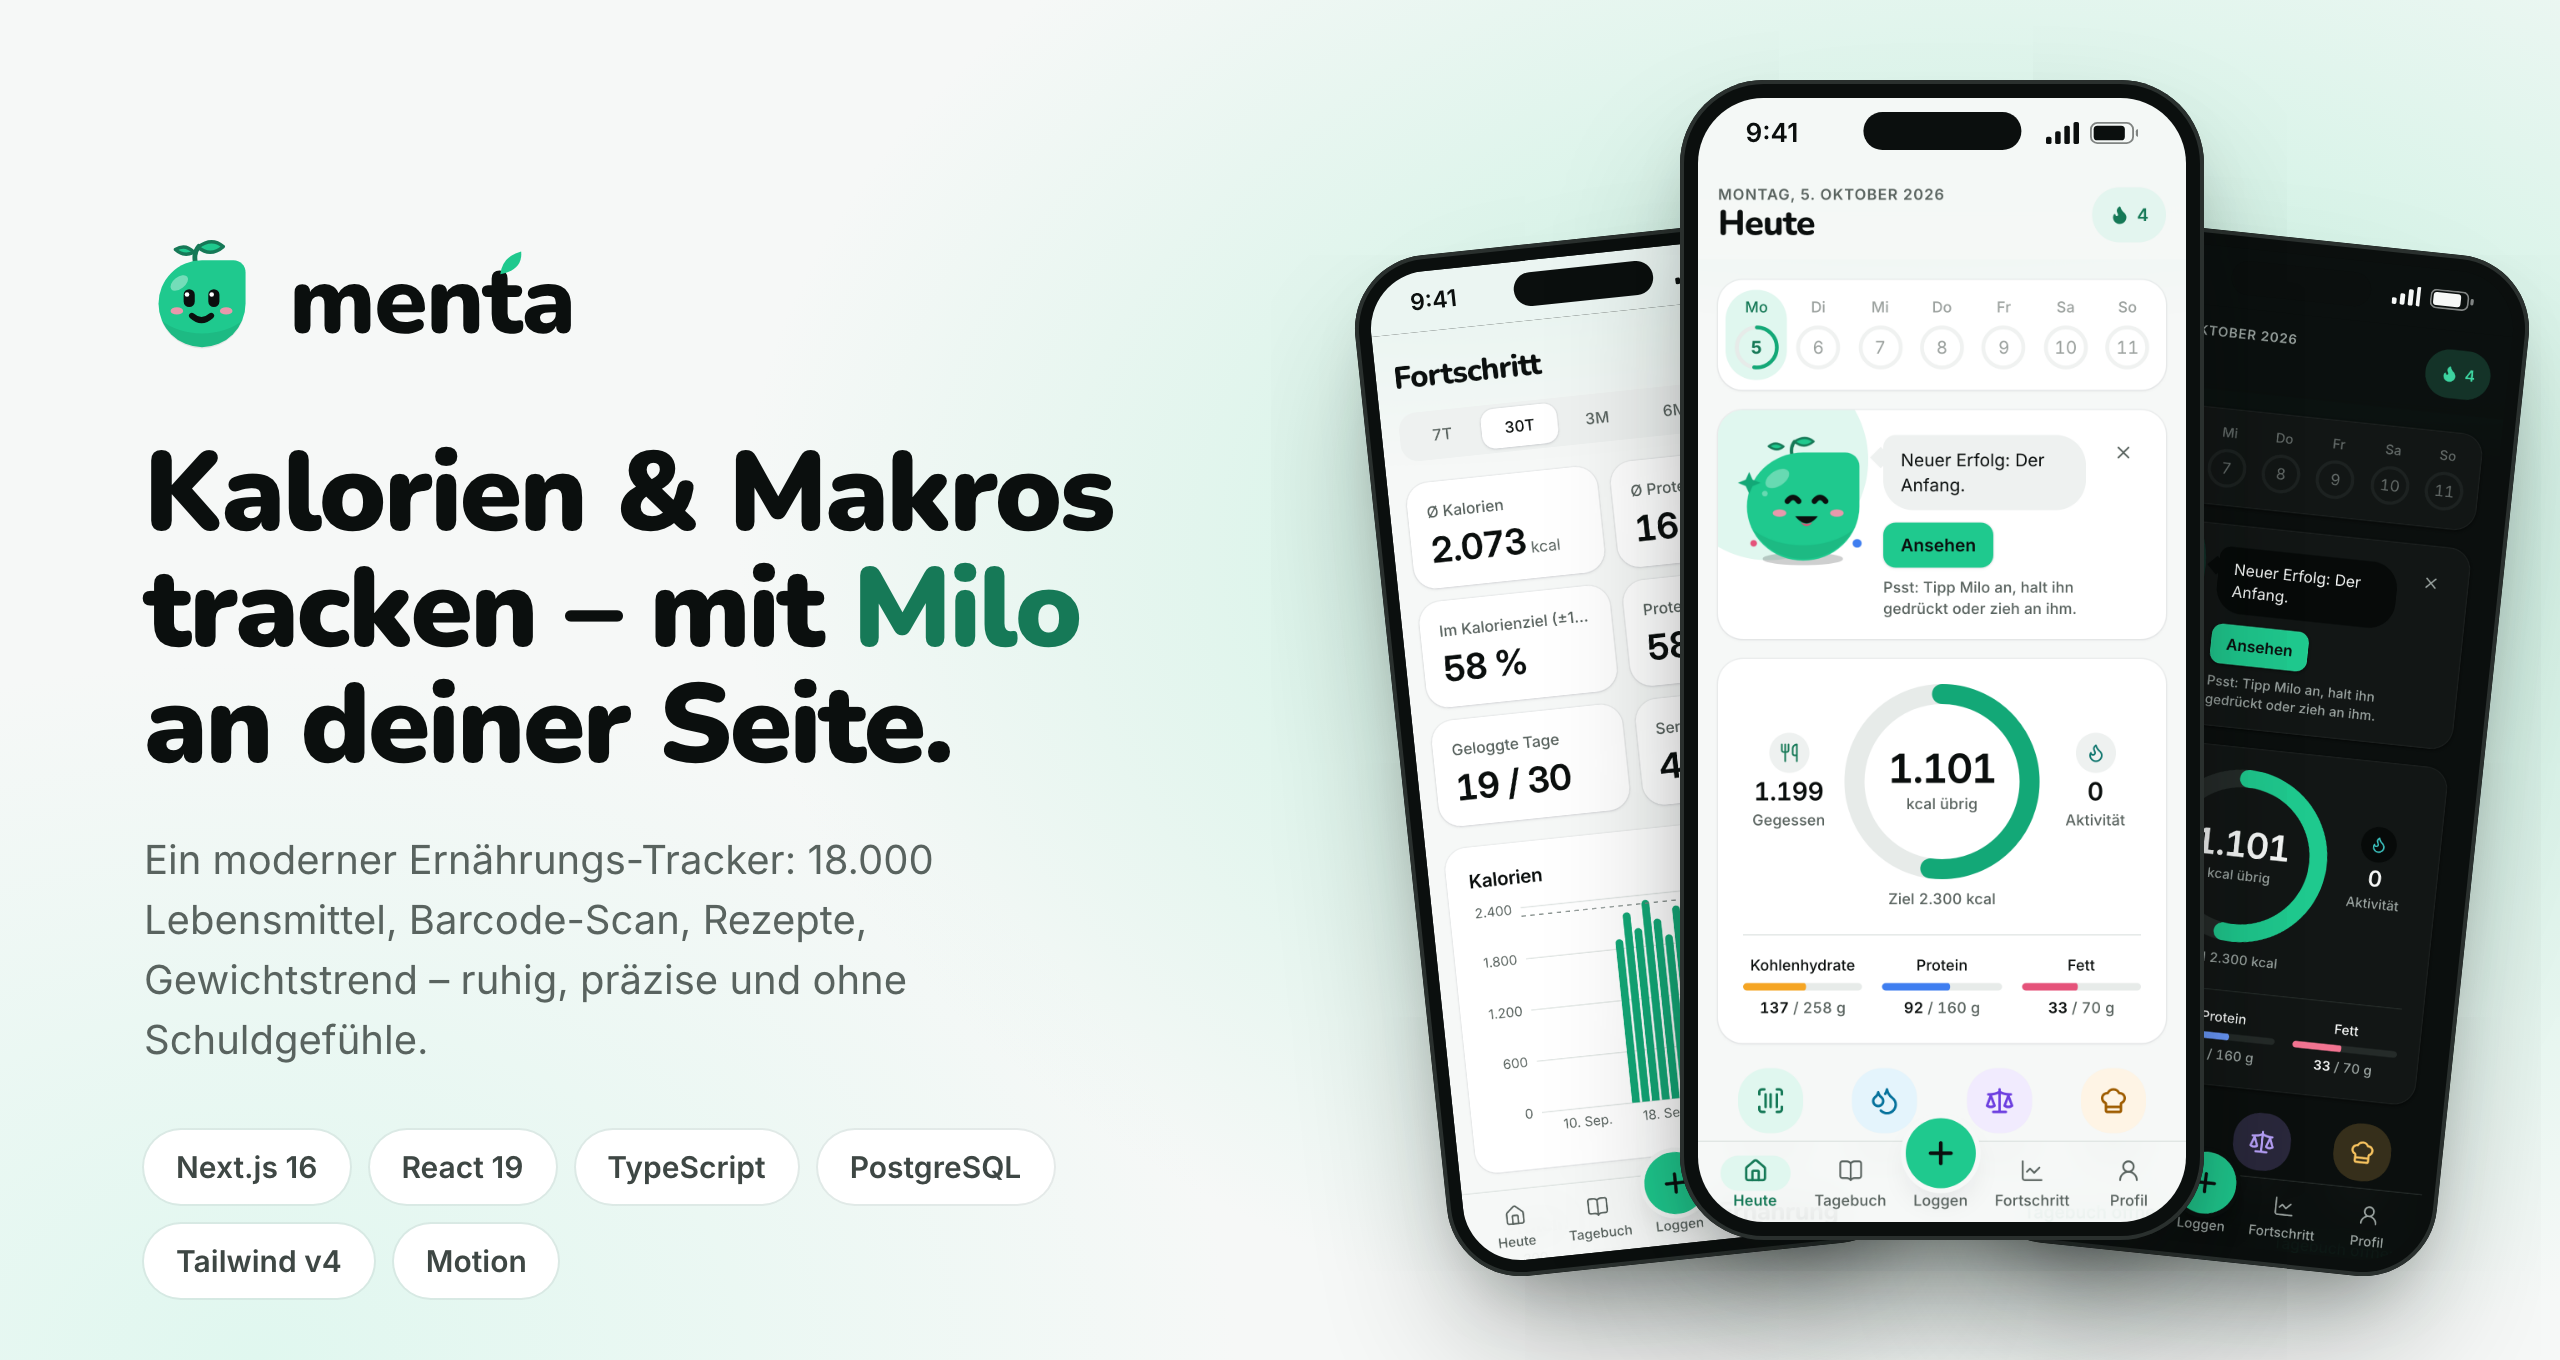
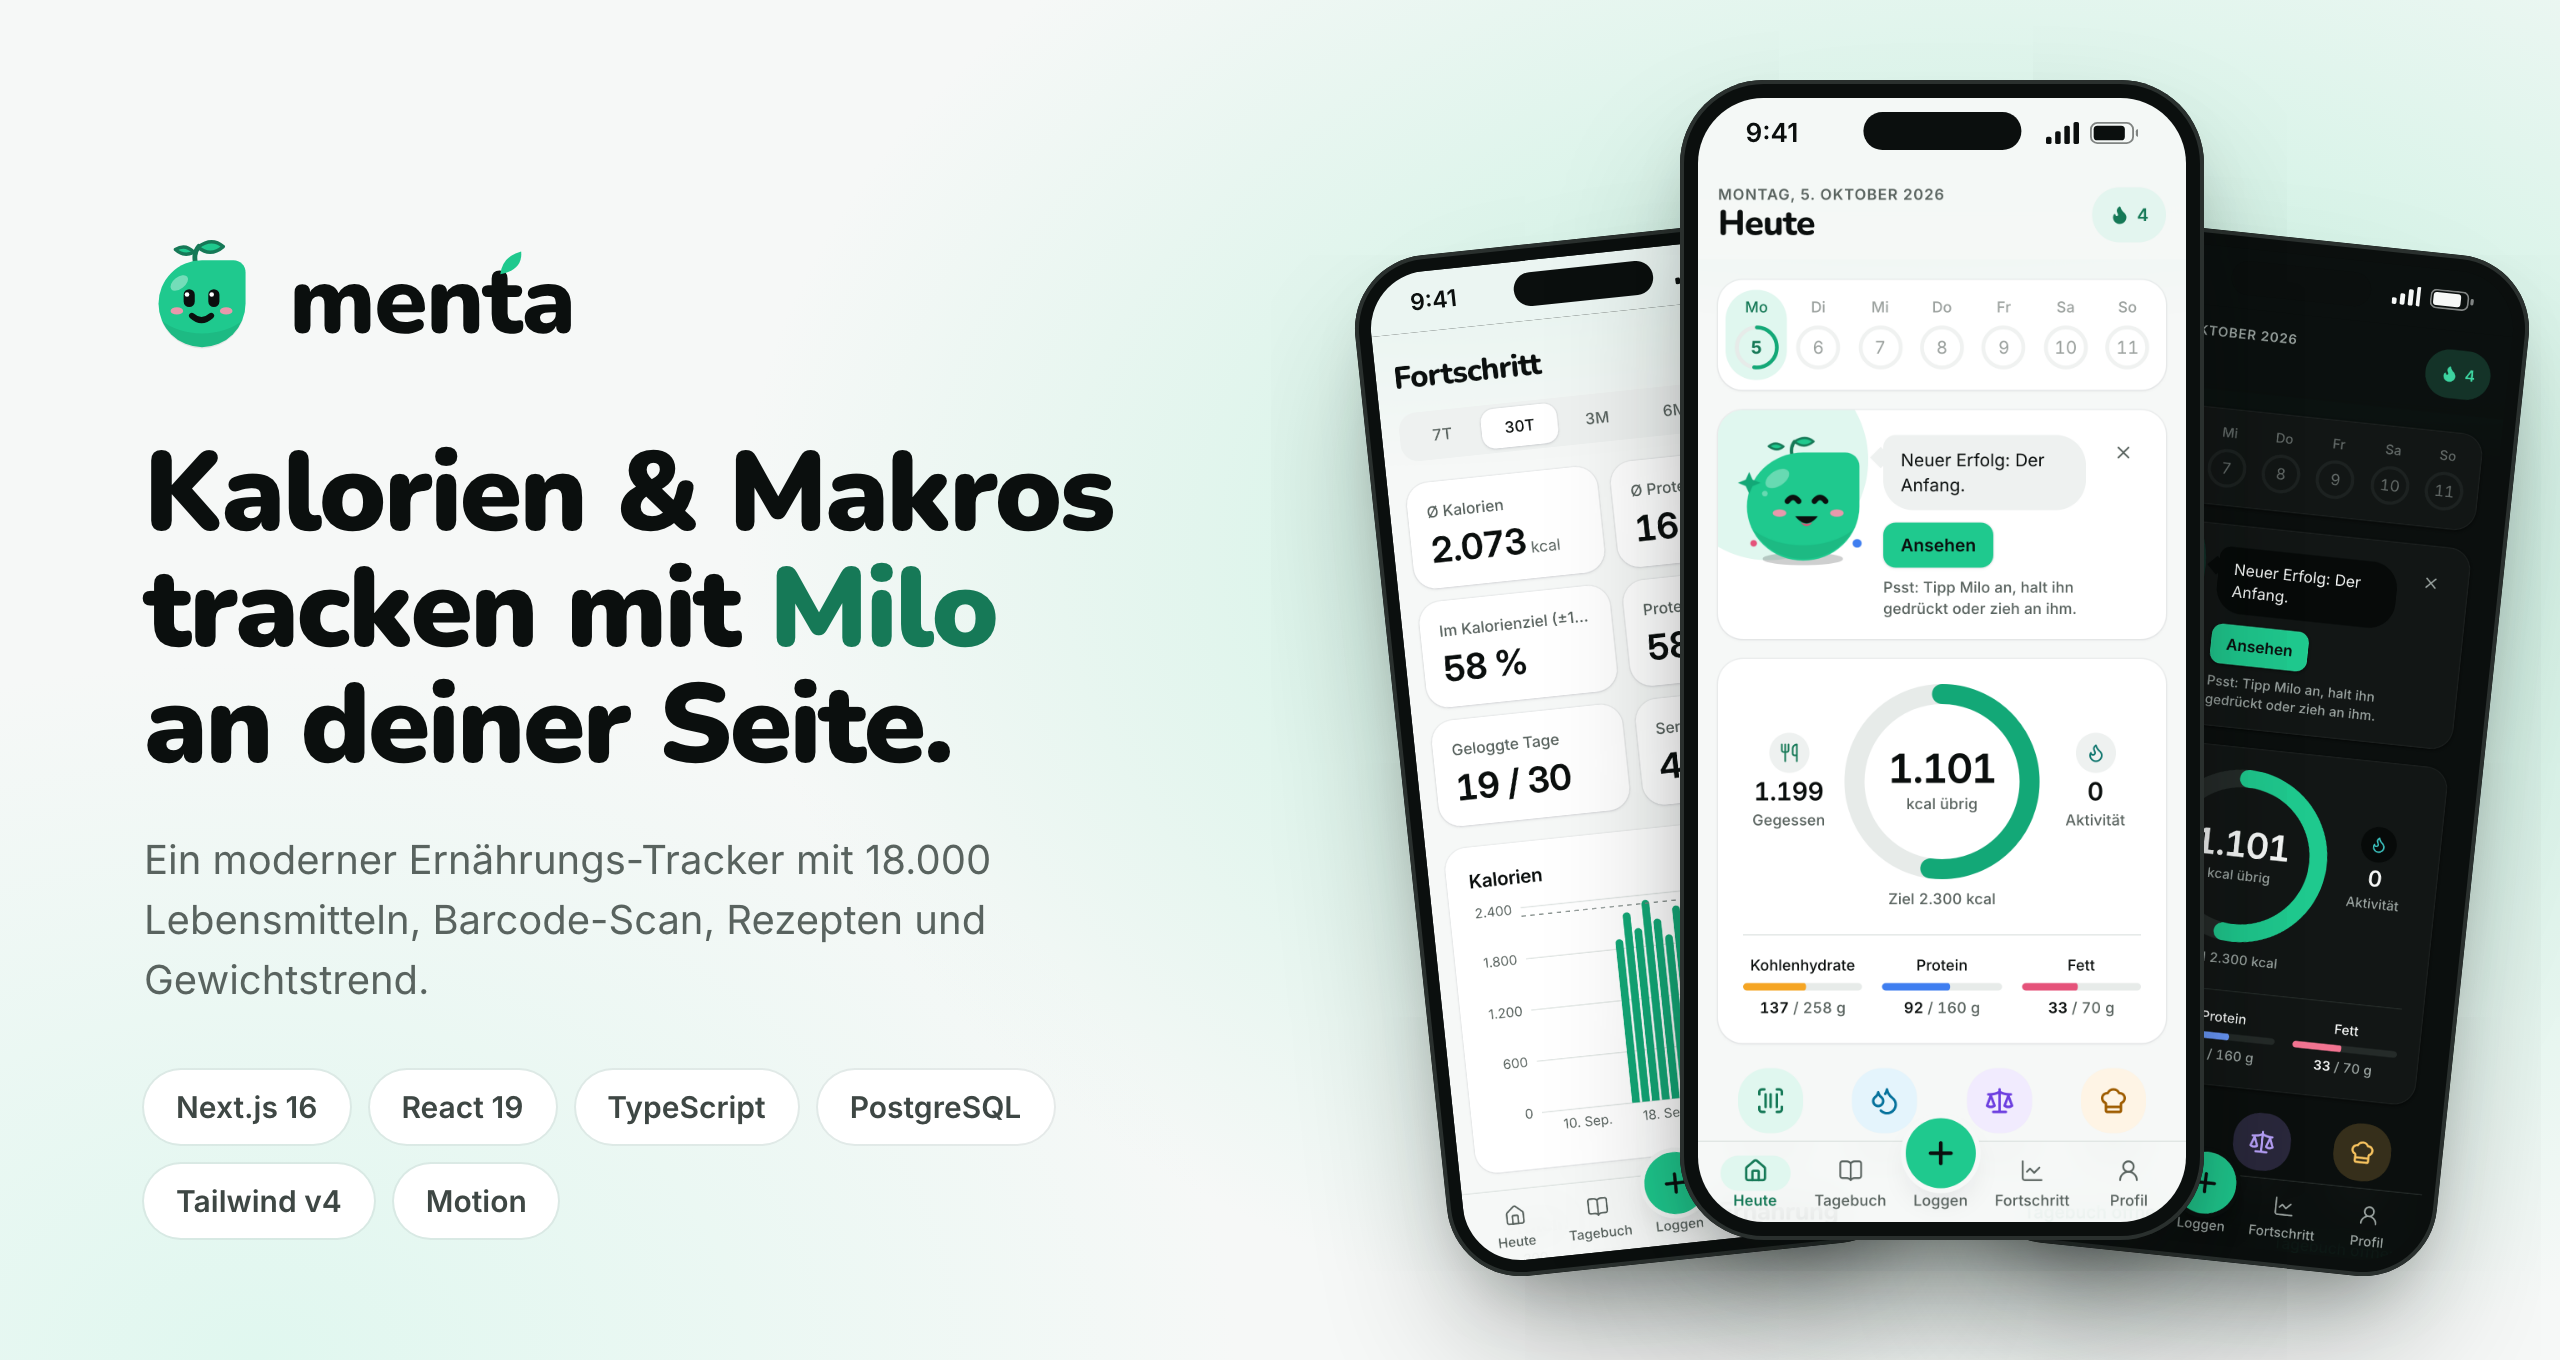
docs: simplify README and hero copy

diff --git a/README.md b/README.md
@@ -7,8 +7,7 @@
 
 ### Klarheit auf dem Teller.
 
-Ein moderner Kalorien- und Makro-Tracker mit Maskottchen **Milo** als Coach –<br>
-ruhig, präzise und ohne Schuldgefühle.
+Ein moderner Kalorien- und Makro-Tracker mit Maskottchen **Milo** als Coach.
 
 ![Next.js](https://img.shields.io/badge/Next.js_16-000?logo=nextdotjs&logoColor=white)
 ![React](https://img.shields.io/badge/React_19-149ECA?logo=react&logoColor=white)
@@ -23,23 +22,23 @@ ruhig, präzise und ohne Schuldgefühle.
 
 <br>
 
-![Menta – Übersicht](docs/media/hero.png)
+![Menta Übersicht](docs/media/hero.png)
 
 ## Überblick
 
 Menta macht das Tracken von Ernährung so schnell und angenehm wie möglich: Lebensmittel in zwei Taps loggen,
 Kalorien und Makros auf einen Blick sehen und den Gewichtstrend statt täglicher Schwankungen verfolgen.
-Die App ist mobile-first gebaut, funktioniert aber genauso gut am Desktop – mit Tastenkürzeln und mehrspaltigen
+Die App ist mobile-first gebaut, funktioniert aber genauso gut am Desktop, mit Tastenkürzeln und mehrspaltigen
 Layouts. UI-Sprache ist Deutsch, Light und Dark Mode werden vollständig unterstützt.
 
 **Highlights**
 
-- 🔎 **Schnelle Suche** über ~18.000 lokale Lebensmittel plus Live-Fallback auf Open Food Facts – Verlauf und Favoriten zuerst
+- 🔎 **Schnelle Suche** über ~18.000 lokale Lebensmittel plus Live-Fallback auf Open Food Facts, Verlauf und Favoriten zuerst
 - 📷 **Barcode-Scan** per Kamera mit Anlage-Flow für unbekannte Produkte
 - 🎯 **Transparente Zielberechnung** (Mifflin-St Jeor, PAL, Tempo) mit Makro-Modi und Tagesprofilen
 - 📈 **Fortschritt** von 7 Tagen bis 1 Jahr, geglätteter Gewichtstrend, Serien und Erfolge
-- 🌱 **Milo** – ein interaktiver Coach, der kontextabhängig hilft (und sich streicheln lässt)
-- ⌨ **Desktop-optimiert** mit Seitenleiste, Tastenkürzeln (`N`, `/`, `⌘K`, `1–4`, `?`) und Zwei-Spalten-Layouts
+- 🌱 **Milo**, ein interaktiver Coach, der kontextabhängig hilft (und sich streicheln lässt)
+- ⌨ **Desktop-optimiert** mit Seitenleiste, Tastenkürzeln (`N`, `/`, `⌘K`, `1` bis `4`, `?`) und Zwei-Spalten-Layouts
 
 ## Screens
 
@@ -52,16 +51,16 @@ Layouts. UI-Sprache ist Deutsch, Light und Dark Mode werden vollständig unterst
 <td width="52%"><img src="docs/media/milo.gif" alt="Milo reagiert auf Tippen, Doppeltippen, Gedrückthalten und Ziehen"></td>
 <td>
 
-Milo gibt kontextabhängige Hinweise – Frühstück vergessen, Protein-Ziel erreicht, Serie in Gefahr –
-nach 15 priorisierten Regeln, nie mit erhobenem Zeigefinger.
+Milo gibt kontextabhängige Hinweise, etwa wenn das Frühstück fehlt, das Protein-Ziel erreicht ist oder
+die Serie in Gefahr ist. Dahinter stehen 15 priorisierte Regeln, formuliert ohne erhobenen Zeigefinger.
 
 Und er ist interaktiv:
 
-- **Tippen** – hüpfen, wackeln, drehen, kichern
-- **Doppeltippen** – Salto mit Konfetti
-- **Gedrückt halten** – aufladen und Power-Up
-- **Ziehen** – fliegt mit und federt zurück
-- **Streicheln** mit der Maus – Herzaugen
+- **Tippen:** hüpfen, wackeln, drehen, kichern
+- **Doppeltippen:** Salto mit Konfetti
+- **Gedrückt halten:** aufladen und Power-Up
+- **Ziehen:** fliegt mit und federt zurück
+- **Streicheln** mit der Maus: Herzaugen
 - Augen folgen dem Zeiger, Blinzeln, Idle-Animationen
 
 Respektiert `prefers-reduced-motion` und ist per Tastatur bedienbar.
@@ -84,7 +83,7 @@ Respektiert `prefers-reduced-motion` und ist per Tastatur bedienbar.
 |---|---|
 | **Konto & Onboarding** | Registrierung/Login (better-auth), 8-stufiges Onboarding mit nachvollziehbarer Kalorien- und Makroberechnung |
 | **Loggen** | Suche mit Verlauf-Ranking, Schnellauswahl (Zuletzt / Häufig / Favoriten mit letzter Portion), Barcode, Portionen, Mahlzeit oder Tag kopieren, Rückgängig |
-| **Lebensmittel & Rezepte** | Eigene Lebensmittel mit Validierung, Rezepte mit Live-Nährwerten pro Portion – loggbar wie jedes Lebensmittel |
+| **Lebensmittel & Rezepte** | Eigene Lebensmittel mit Validierung, Rezepte mit Live-Nährwerten pro Portion, loggbar wie jedes Lebensmittel |
 | **Ziele** | Berechnet oder manuell, Makro-Modi Prozent / Gramm / Empfehlung, Tagesprofile (Training, Ruhetag, Refeed …) pro Wochentag |
 | **Körper & Aktivität** | Gewicht mit geglättetem 7-Tage-Trend und Zielprognose, Aktivitäten (MET-basiert), Wasser |
 | **Auswertung** | Kalorien, Protein, Zielerreichung und Beständigkeit über 7T / 30T / 3M / 6M / 1J |
@@ -96,7 +95,7 @@ Respektiert `prefers-reduced-motion` und ist per Tastatur bedienbar.
 |---|---|
 | **Framework** | Next.js 16 (App Router, React 19, Server Components, Server Actions, Turbopack) |
 | **Sprache** | TypeScript (strict), Zod für jede externe Eingabe |
-| **Daten** | PostgreSQL mit Drizzle ORM · lokal **PGlite** (PostgreSQL 17 als WASM – kein DB-Server nötig) |
+| **Daten** | PostgreSQL mit Drizzle ORM · lokal **PGlite** (PostgreSQL 17 als WASM, kein DB-Server nötig) |
 | **Auth** | better-auth (E-Mail + Passwort) |
 | **UI** | Tailwind CSS v4 (CSS-first Design Tokens), Radix-Primitives, motion, Recharts, lucide |
 | **Tests** | Vitest + Testing Library (Unit & DB-Integration), Playwright (E2E) |
@@ -105,30 +104,30 @@ Respektiert `prefers-reduced-motion` und ist per Tastatur bedienbar.
 
 ```
 src/
-  domain/            Reine Fachlogik ohne Framework-Abhängigkeiten – vollständig unit-getestet
+  domain/            Reine Fachlogik ohne Framework-Abhängigkeiten, vollständig unit-getestet
                      (Nährwert-Mathe, Kalorien- & Makro-Engine, Gewichtstrend, Aktivität, Engagement)
   server/
     db/              Drizzle-Schema, Migrationen, Such-SQL
     food/            Provider-Abstraktion (Open Food Facts, USDA, lokal), Normalisierung, Import-Pipeline
-    services/        Use-Cases als fn(ctx, input) – immer auf ctx.userId gescoped, gegen echte DB getestet
+    services/        Use-Cases als fn(ctx, input), immer auf ctx.userId gescoped, gegen echte DB getestet
   app/               Routen: Server Components lesen über Services, Mutationen über Server Actions
   components/        UI-Bibliothek (ui/) und Feature-Komponenten
 ```
 
 **Technische Entscheidungen, die sich lohnen anzusehen**
 
-- **Nährwert-Snapshots im Tagebuch** – Einträge speichern ihre Nährwerte zum Logzeitpunkt. Aktualisierte oder
+- **Nährwert-Snapshots im Tagebuch:** Einträge speichern ihre Nährwerte zum Logzeitpunkt. Aktualisierte oder
   bearbeitete Lebensmittel verändern die Historie nie still; Tagessummen werden live per SQL aggregiert, es gibt
   keine redundante Summentabelle, die invalidiert werden müsste.
-- **Eingefrorene Tagesziele** – `daily_nutrition` hält die Ziele vergangener Tage fest, sodass Zieländerungen
+- **Eingefrorene Tagesziele:** `daily_nutrition` hält die Ziele vergangener Tage fest, sodass Zieländerungen
   alte Auswertungen nicht verfälschen.
-- **Hybride Lebensmitteldaten** – Open Food Facts (Markenprodukte, Barcodes), USDA FoodData Central (generische
+- **Hybride Lebensmitteldaten:** Open Food Facts (Markenprodukte, Barcodes), USDA FoodData Central (generische
   Lebensmittel, Mikronährstoffe) und 446 kuratierte deutsche Grundnahrungsmittel; normalisiert, validiert,
   dedupliziert und mit Positiv-/Negativ-Cache.
-- **Suche** – generierte `tsvector`-Spalte, Trigram-GIN- und Präfix-Index, zweistufige Abfrage: bei 1 Mio.
-  Lebensmitteln meist 3–60 ms. Ranking: Verlauf → exakte Treffer → Favoriten → eigene → Datenbank.
-- **Datenintegrität** – 39 CHECK-Constraints sichern plausible Werte direkt in der Datenbank.
-- **Barrierefreiheit** – semantische Design-Tokens, Kontraste nach WCAG AA, sichtbarer Fokus, Touch-Ziele ≥ 44 px,
+- **Suche:** generierte `tsvector`-Spalte, Trigram-GIN- und Präfix-Index, zweistufige Abfrage: bei 1 Mio.
+  Lebensmitteln meist 3 bis 60 ms. Ranking: Verlauf → exakte Treffer → Favoriten → eigene → Datenbank.
+- **Datenintegrität:** 39 CHECK-Constraints sichern plausible Werte direkt in der Datenbank.
+- **Barrierefreiheit:** semantische Design-Tokens, Kontraste nach WCAG AA, sichtbarer Fokus, Touch-Ziele ≥ 44 px,
   `prefers-reduced-motion` überall respektiert.
 
 Ausführliche Dokumentation: [`docs/ARCHITECTURE.md`](docs/ARCHITECTURE.md) ·
@@ -138,7 +137,7 @@ Ausführliche Dokumentation: [`docs/ARCHITECTURE.md`](docs/ARCHITECTURE.md) ·
 
 ## Qualität
 
-- **1.275 Tests** in 72 Dateien – Fachlogik, Services gegen frische In-Memory-PostgreSQL-Instanzen,
+- **1.275 Tests** in 72 Dateien: Fachlogik, Services gegen frische In-Memory-PostgreSQL-Instanzen,
   Komponenten und ein E2E-Flow (Registrierung → Onboarding → Suche → Loggen → Portion ändern)
 - **CI** auf jedem Push: Typecheck, Lint, Tests und Production-Build (GitHub Actions)
 
@@ -151,7 +150,7 @@ Ausführliche Dokumentation: [`docs/ARCHITECTURE.md`](docs/ARCHITECTURE.md) ·
   `X-Content-Type-Options`, `Referrer-Policy` und `Permissions-Policy`
 - better-auth mit gehashten Passwörtern, HttpOnly-Cookies und Rate-Limiting; Konto-Löschung nur mit Passwort
 
-Sicherheitslücken bitte vertraulich melden – siehe [SECURITY.md](SECURITY.md).
+Sicherheitslücken bitte vertraulich melden, siehe [SECURITY.md](SECURITY.md).
 
 ## Lokal starten
 
@@ -164,7 +163,7 @@ pnpm db:seed             # Migrationen, ~18.000 Lebensmittel und ein Demo-Accoun
 pnpm dev                 # http://localhost:3000
 ```
 
-Demo-Login: **demo@menta.app** / **menta-demo-2026** – drei Wochen Beispiel-Tagebuch inklusive Gewicht und Wasser.
+Demo-Login: **demo@menta.app** / **menta-demo-2026** mit drei Wochen Beispiel-Tagebuch inklusive Gewicht und Wasser.
 
 Es wird kein PostgreSQL-Server benötigt: lokal läuft PGlite mit Daten in `.data/pglite`.
 Für Produktion `DATABASE_URL` auf eine PostgreSQL-Instanz (≥ 14, Extensions `pg_trgm` und `unaccent`) setzen.
@@ -193,7 +192,7 @@ Für Produktion `DATABASE_URL` auf eine PostgreSQL-Instanz (≥ 14, Extensions `
 
 ## Datenquellen & Lizenzen
 
-- Lebensmitteldaten von [Open Food Facts](https://world.openfoodfacts.org) (ODbL) – Attribution in der App sichtbar
+- Lebensmitteldaten von [Open Food Facts](https://world.openfoodfacts.org) (ODbL), Attribution in der App sichtbar
 - [USDA FoodData Central](https://fdc.nal.usda.gov) (Public Domain / CC0)
 - Wortmarke auf Basis von [Nunito](https://fonts.google.com/specimen/Nunito) (SIL Open Font License)
 
